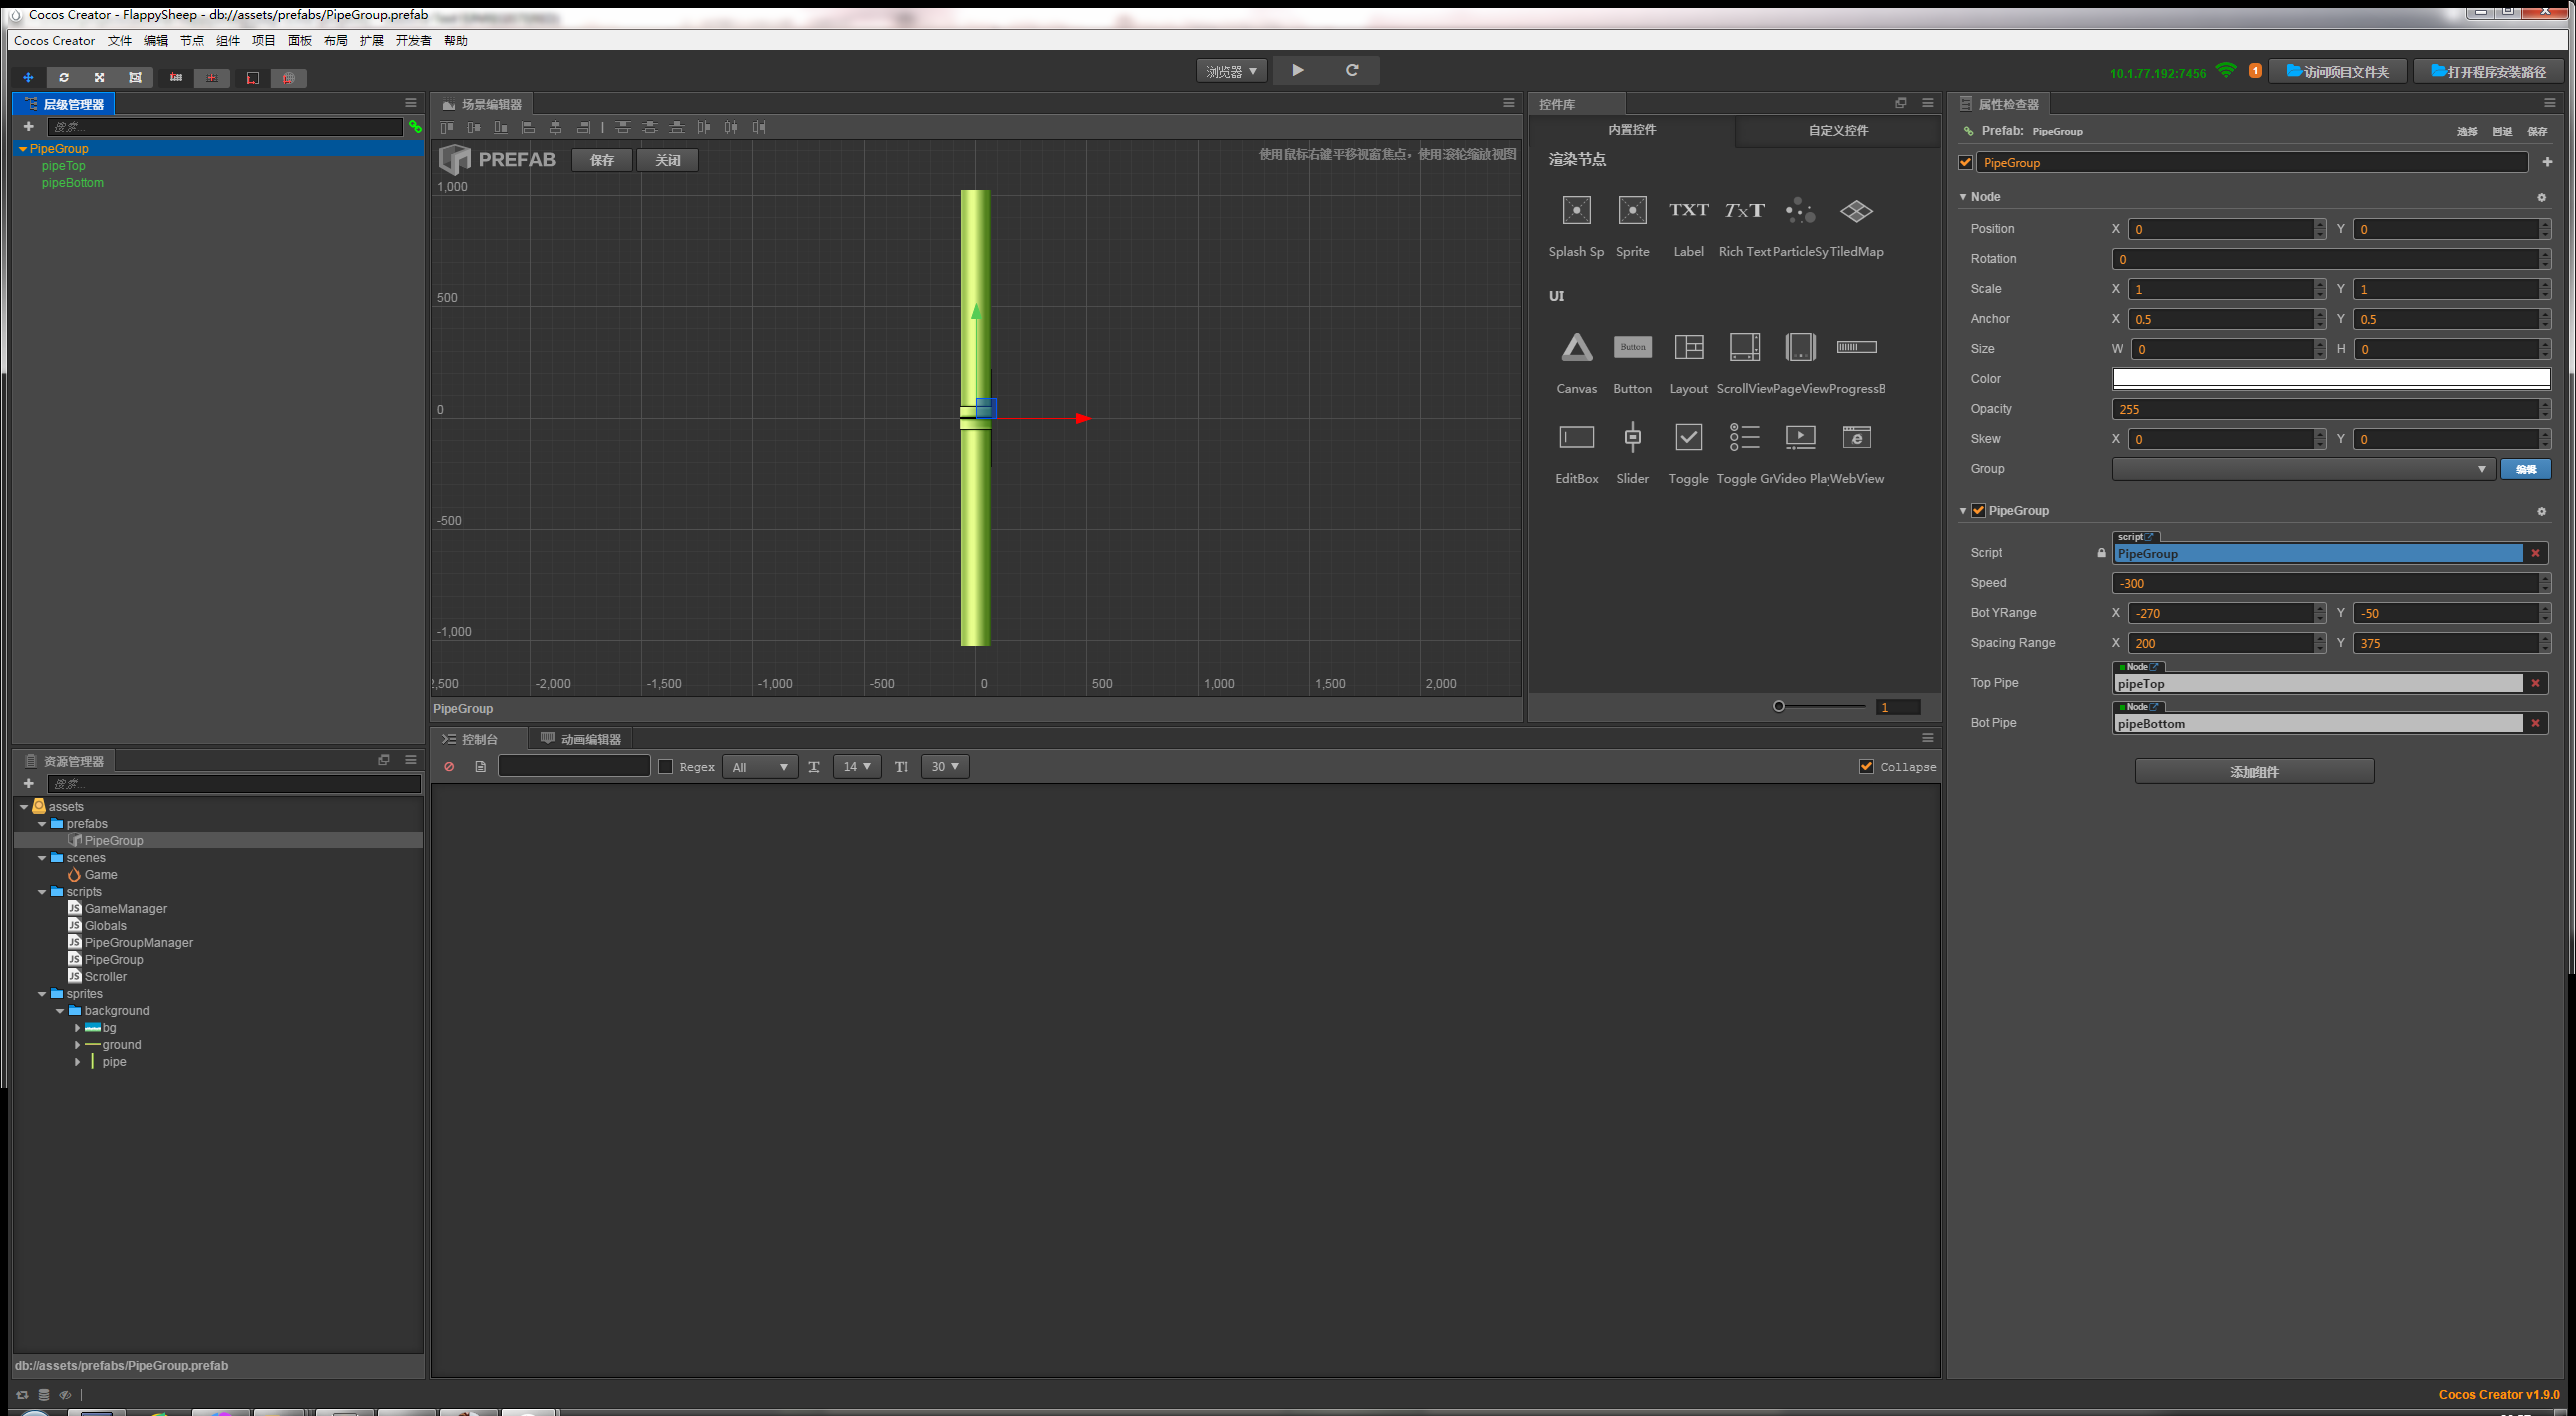
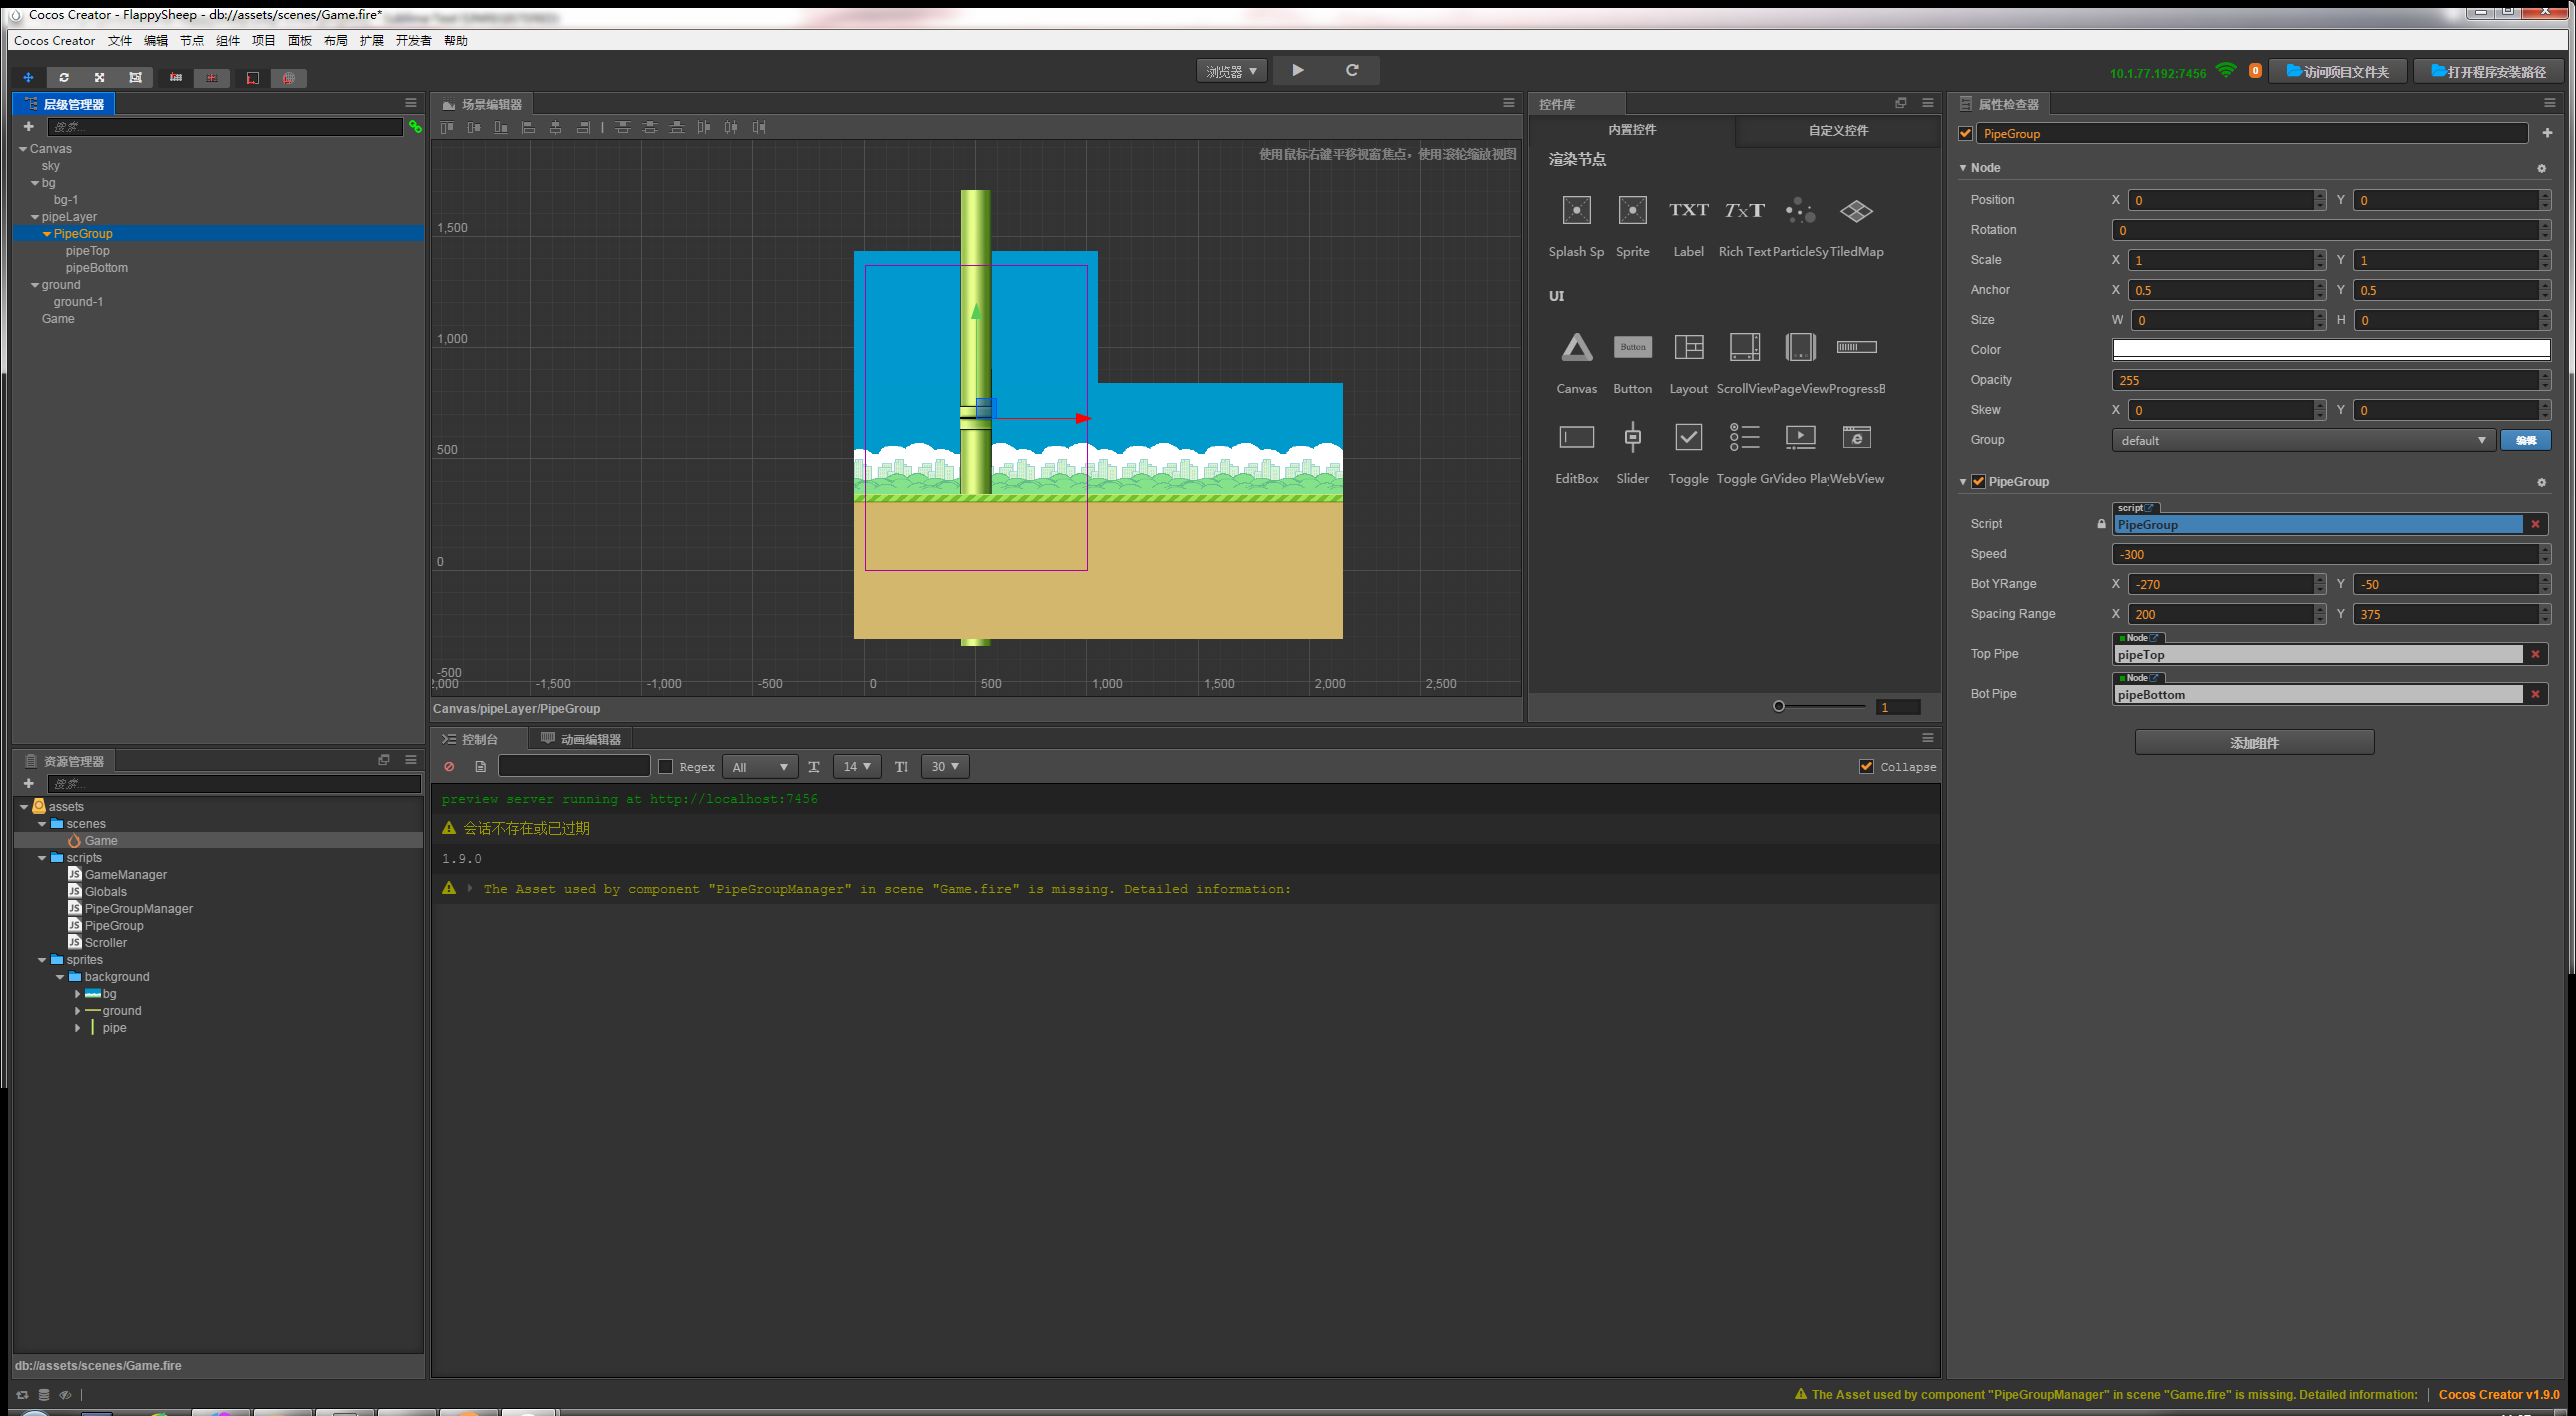
x

diff --git a/step-3.md b/step-3.md
@@ -99,14 +99,22 @@ var GameManager = cc.Class({
 ```
 ![3-3](/3-3.png)
 
-## 导入prefab
+## 制作管道prefab
 
-- 资源管理器，选中assets，右键新建文件夹prefabs
-- 将之前下载的美术资源assets\prefabs下的PipeGroup.prefab文件拖拽到资源管理器->assets->prefabs文件夹下
-- 双击打开assets->prefabs->PipeGroup，将资源管理器->assets->scripts->PipeGroup拖拽到属性检查器面板，然后将层级管理器->PipeGroup->pipeTop和pipeBottom分别拖拽到属性检查器面板上的Top Pipe和Bot Pipe节点，修改数值Speed=-300，BotYRange数值X=-270，Y=-50，SpacingRange数值X=200，Y=375，然后分别双击打开层级管理器->PipeGroup下的子节点pipeTop和pipeBottom，将资源管理器->assets->sprites->background->pipe拖拽到属性检查器面板上的SpriteFrame，同时先删除PipeGroup以及子节点pipeTop和pipeBottom的BoxCollider
+- 调整一下层级管理器里节点的顺序，从上到下一依次为sky、bg、pipeLayer、ground、Game，这样才能确保地表ground遮盖住管道下沿pipeLayer
+- 层级管理器，选中Canvas下的pipeLayer，右键创建空节点PipeGroup，并在PipeGroup节点下创建两个Sprite子节点pipeTop和pipeBottom
+- 修改pipeTop和pipeBottom的Anchor数值Y=0，修改Size数值W=148，H=1024，修改pipeBottom的Scale数值Y=-1
+- 将资源管理器->assets->sprites->background->pipe分别拖拽到pipeTop和pipeBottom的Sprite Frame
+- 选中PipeGroup节点，将资源管理器->assets->scripts->PipeGroup拖拽到属性检查器面板，然后将pipeTop和pipeBottom子节点分别拖拽到属性检查器面板上的Top Pipe和Bot Pipe节点，修改数值Speed=-300，BotYRange数值X=-270，Y=-50，SpacingRange数值X=200，Y=375
 ![3-4](/3-4.png)
-- 双击打开资源管理器下的Game场景，选中层级管理器->Canvas下的Game，将资源管理器->assets->scripts->GameManager拖拽到属性检查器面板
-- 选中层级管理器->Canvas下的Game，将资源管理器->assets->scripts->PipeGroupManager拖拽到属性检查器面板，然后将资源管理器->assets->prefabs->PipeGroup拖拽到属性检查器面板上的Pipe Prefab，将层级管理器->Canvas下的pipeLayer拖拽到Pipe Layer，修改数值InitPipeX=700, SpawnInterval=2。注意这里调整一下层级管理器里节点的顺序，从上到下一依次为sky、bg、pipeLayer、ground、Game，这样才能确保地表遮盖住管道下沿
+- 资源管理器，选中assets，右键新建文件夹prefabs，将层级管理器中的PipeGroup节点拖拽到assets->prefabs文件夹
+- 选中层级管理器下的PipeGroup节点，右键删除节点
 ![3-5](/3-5.png)
+
+## 挂载GameManager和PipeGroupManager脚本
+
+- 双击打开资源管理器下的Game场景，选中层级管理器->Canvas下的Game，将资源管理器->assets->scripts->GameManager拖拽到属性检查器面板
+- 选中层级管理器->Canvas下的Game，将资源管理器->assets->scripts->PipeGroupManager拖拽到属性检查器面板，然后将资源管理器->assets->prefabs->PipeGroup拖拽到属性检查器面板上的Pipe Prefab，将层级管理器->Canvas下的pipeLayer拖拽到Pipe Layer，修改数值InitPipeX=700, SpawnInterval=2
+![3-5](/3-6.png)
 - 点击预览箭头，在浏览器中预览我们创角好的Game场景和管道障碍物
-![3-6](/3-6.png)
+![3-6](/3-7.png)
